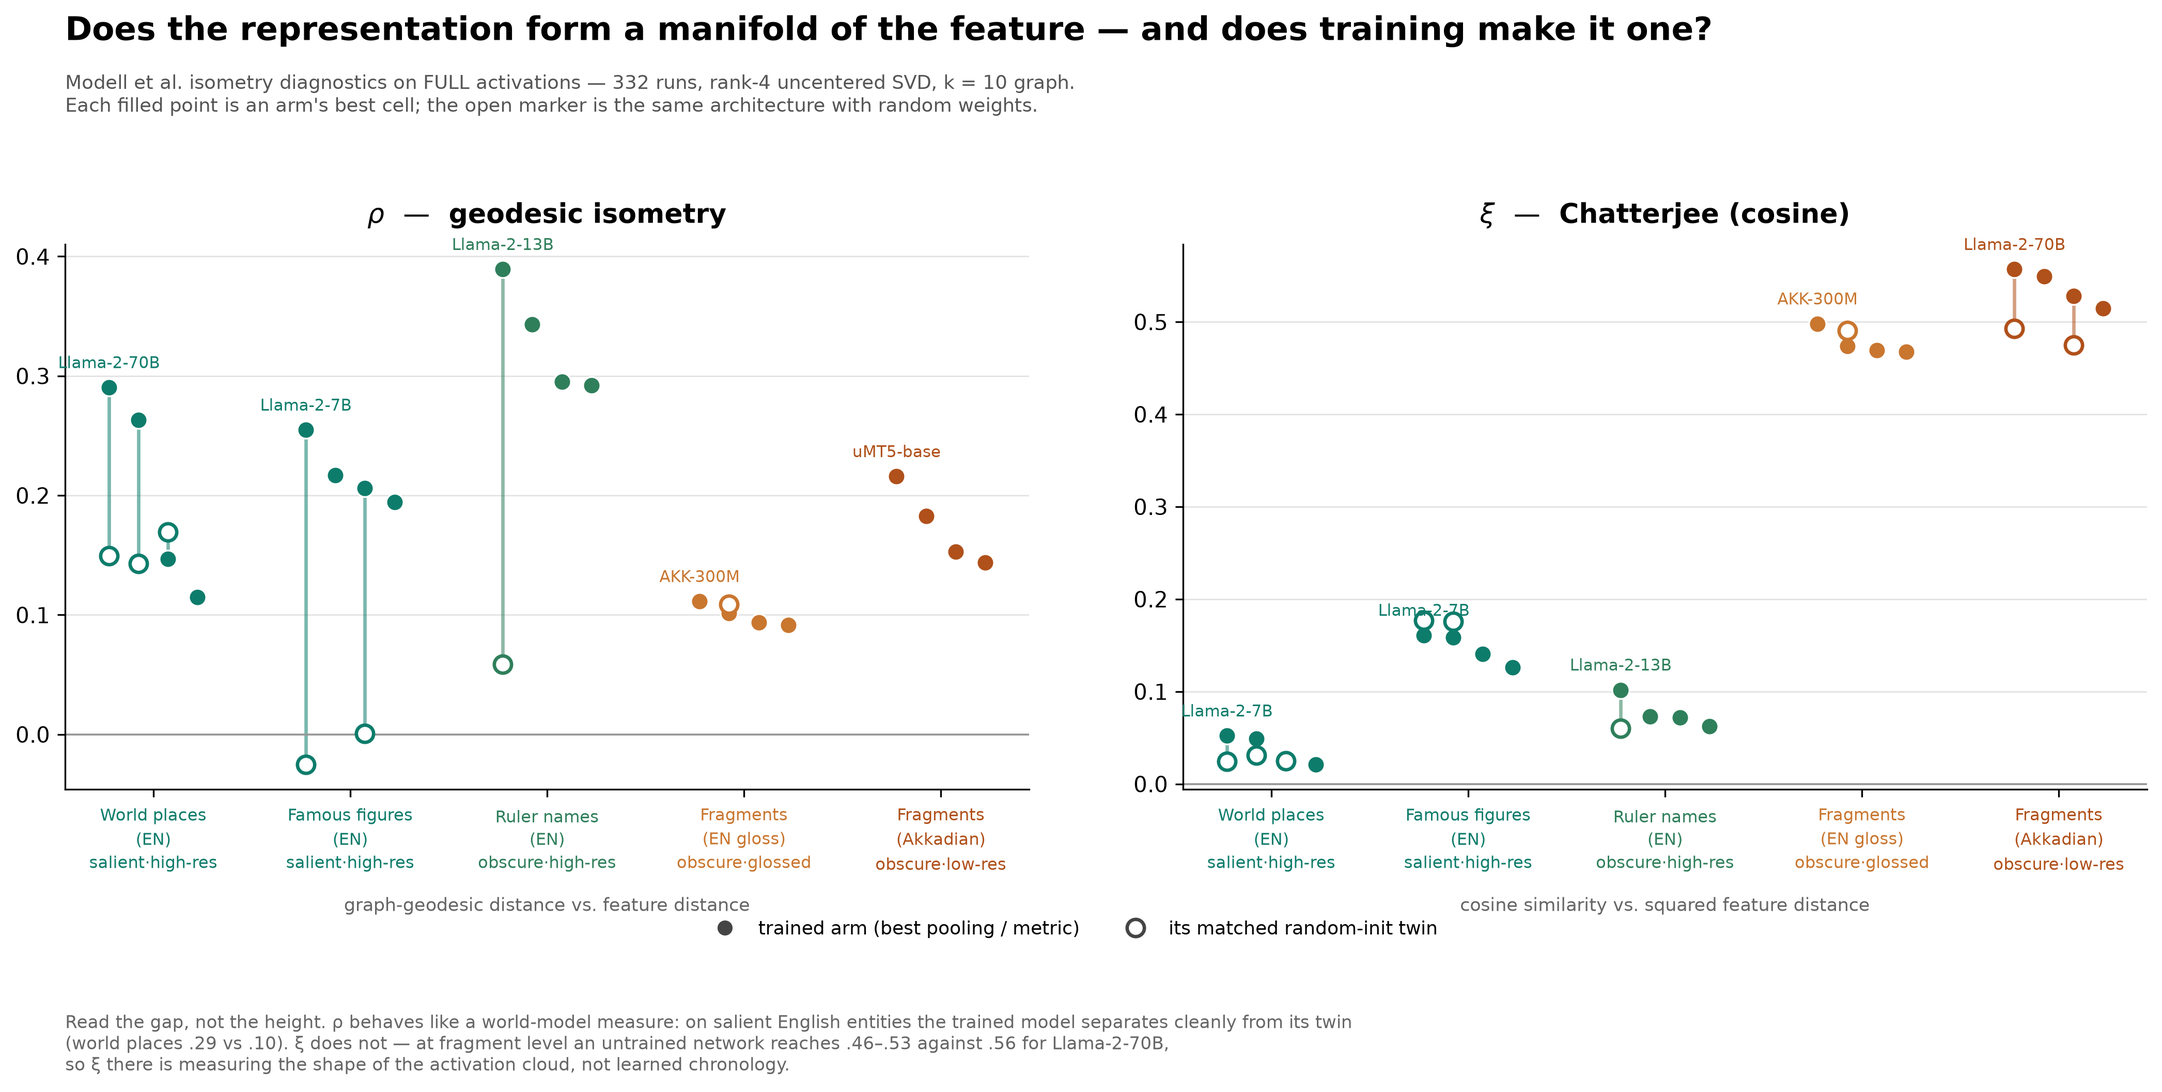
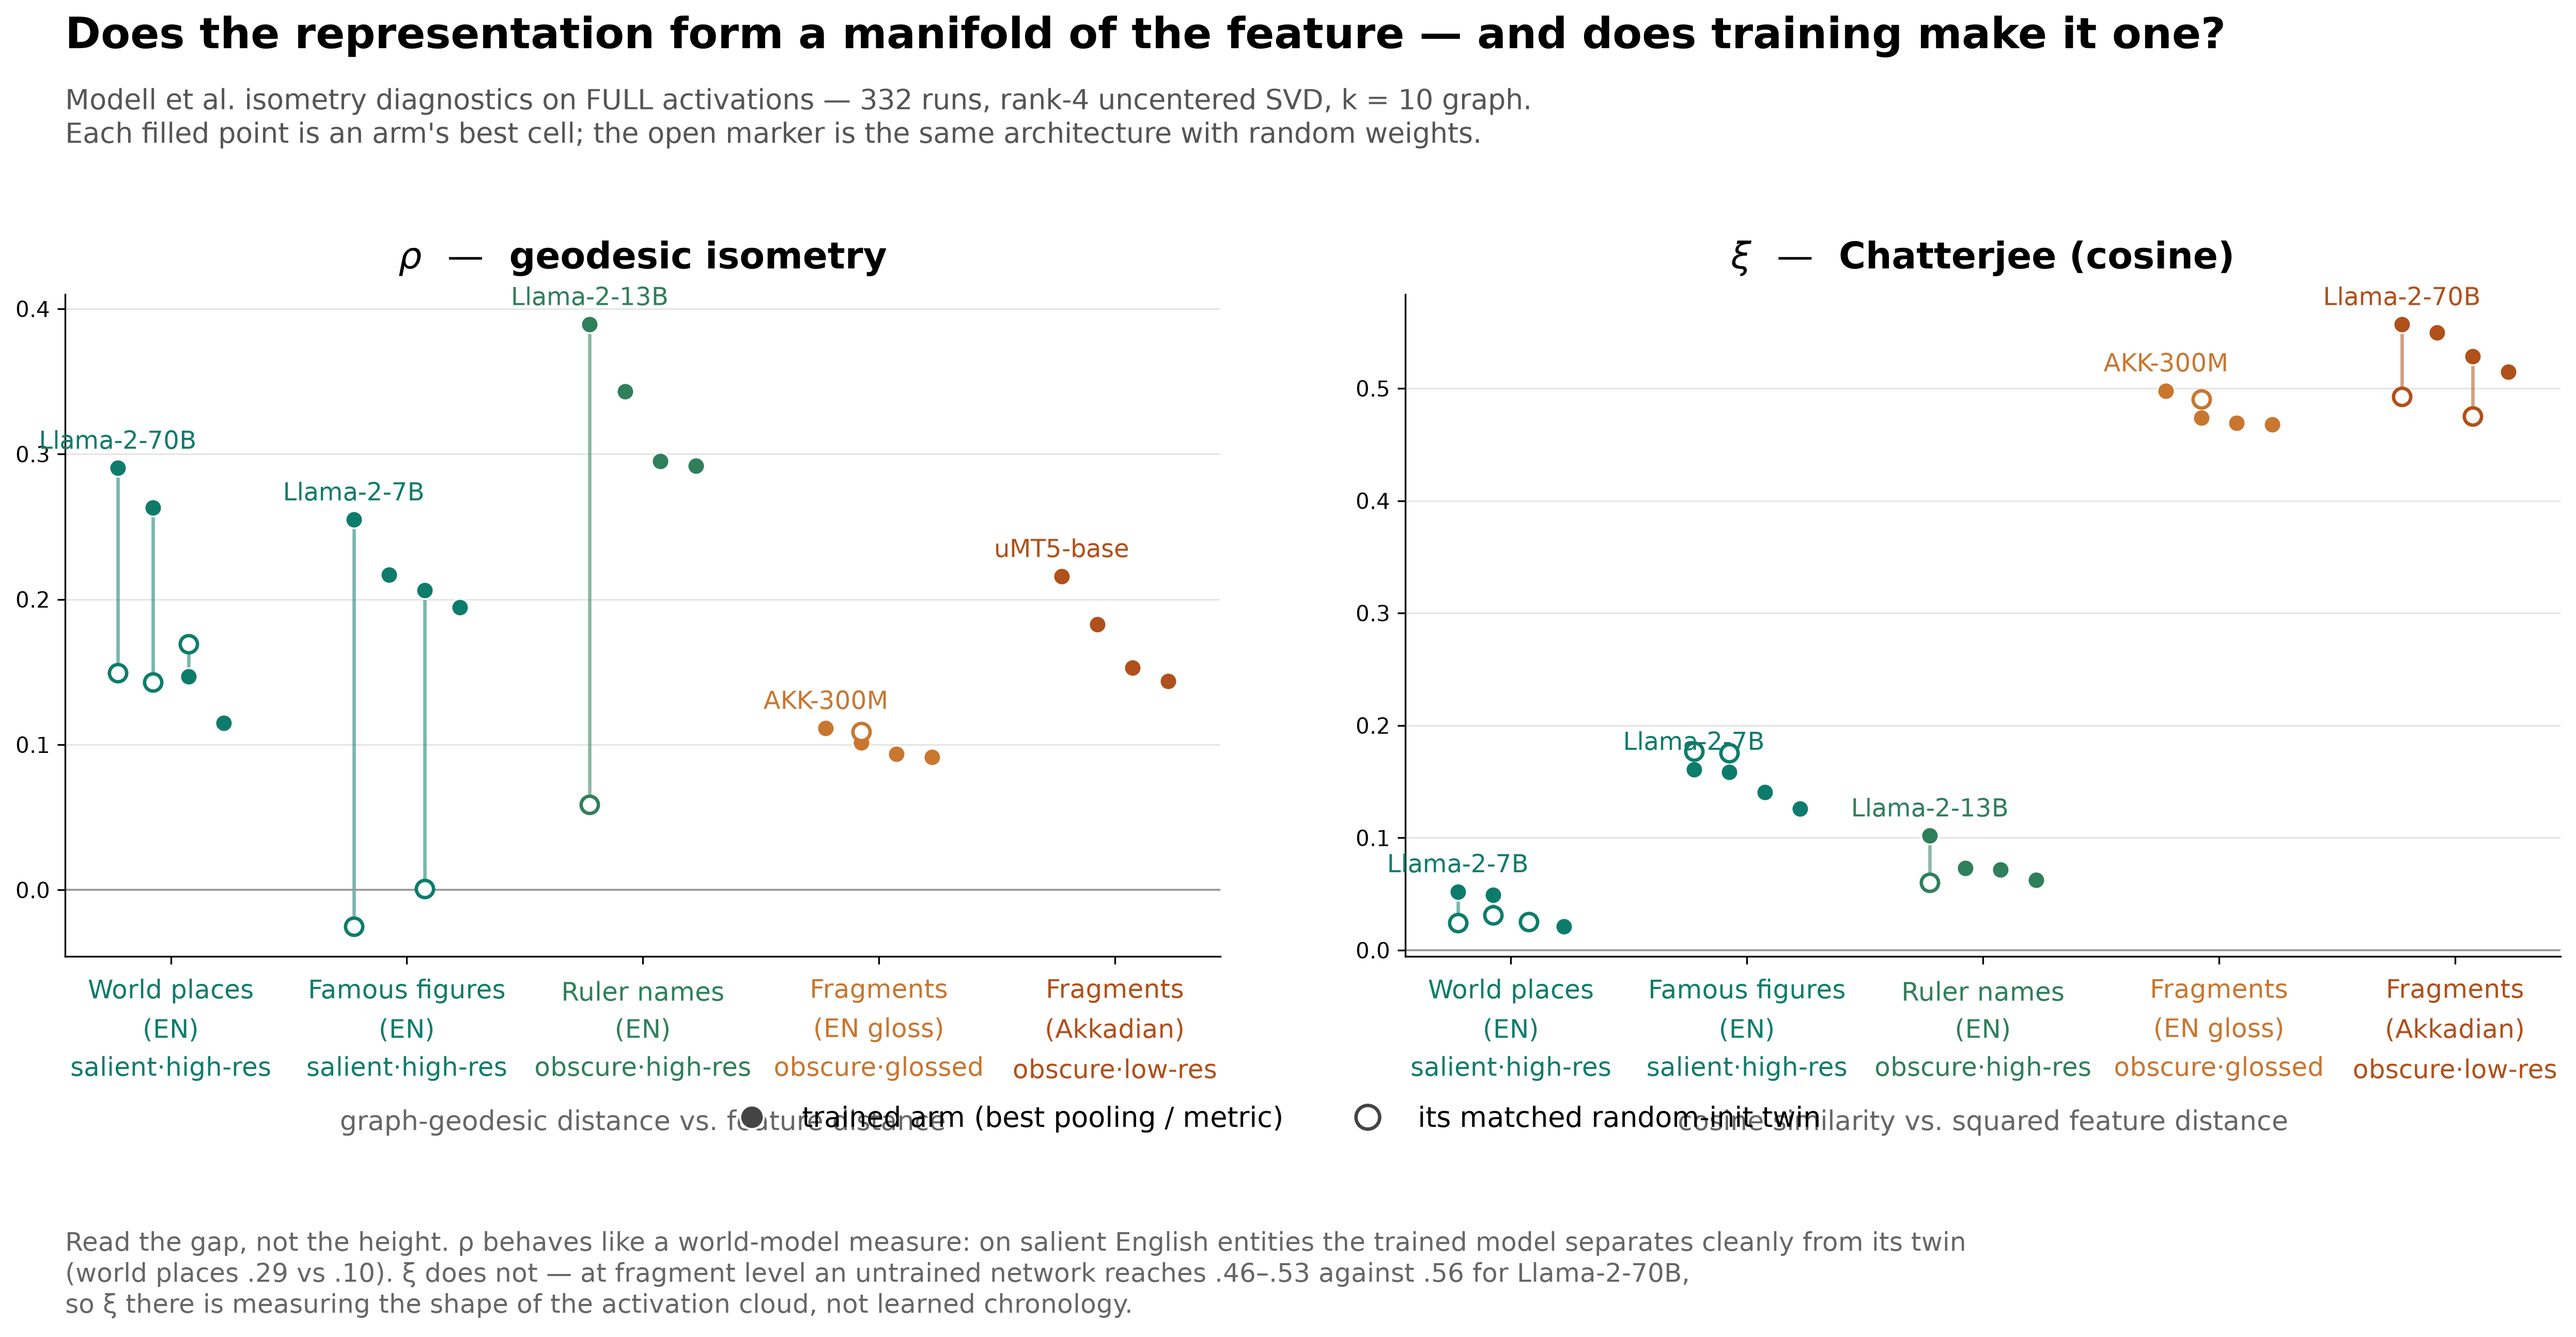
kprofile + isometry summary: adopt the deck type scale via _style.rc()
The last two figure scripts still carried their own 8-10pt sizing while everything else
had moved to the deck's 14pt base. Both now call _style.rc(), so all nine figure
families share one type scale and one palette.

Claude-Session: https://claude.ai/code/session_01JHeh78QKdtqCUQ199CcdUa

diff --git a/v_1/src/world_models/manifold/make_isometry_summary.py b/v_1/src/world_models/manifold/make_isometry_summary.py
@@ -36,6 +36,7 @@ from matplotlib.lines import Line2D
 import sys as _sys, os as _os
 _sys.path.insert(0, _os.path.join(_os.path.dirname(_os.path.abspath(__file__)), '..', 'figures', 'lib'))
 from _save import save as _save_fig  # noqa: E402
+from _style import rc as _rc  # noqa: E402
 
 
 _HERE = os.path.dirname(os.path.abspath(__file__))
@@ -91,8 +92,8 @@ def best_for(S, surface, dataset, arm, which):
 
 def main():
     S = load()
-    fig, axes = plt.subplots(1, 2, figsize=(14.6, 7.4))
-    plt.rcParams.update({"font.family": "DejaVu Sans"})
+    fig, axes = plt.subplots(1, 2, figsize=(17.5, 9.0))
+    _rc()
 
     for ax, (wi, name, blurb) in zip(axes, [
             (1, r"$\rho$  —  geodesic isometry",
@@ -121,7 +122,7 @@ def main():
                             alpha=.55, zorder=2)
                 if drawn == 0:
                     ax.annotate(LAB.get(a, a), (x, v), textcoords="offset points",
-                                xytext=(0, 9), ha="center", fontsize=7.4,
+                                xytext=(0, 9), ha="center", fontsize=11.5,
                                 color=CELL_COL[cell])
                 drawn += 1
                 if drawn == 4:
@@ -130,38 +131,38 @@ def main():
 
         ax.axhline(0, color="#999999", lw=0.9)
         ax.set_xticks(xt)
-        ax.set_xticklabels(labels, fontsize=7.6, linespacing=1.45)
+        ax.set_xticklabels(labels, fontsize=12, linespacing=1.5)
         for t, c in zip(ax.get_xticklabels(), colors):
             t.set_color(c)
-        ax.set_title(name, fontsize=12.5, fontweight="bold", pad=10)
-        ax.set_xlabel(blurb, fontsize=8.4, color="#666666", labelpad=10)
+        ax.set_title(name, fontsize=17, fontweight="bold", pad=12)
+        ax.set_xlabel(blurb, fontsize=12.5, color="#666666", labelpad=10)
         ax.grid(axis="y", color="#e4e4e4", lw=0.7)
         ax.set_axisbelow(True)
         for s in ("top", "right"):
             ax.spines[s].set_visible(False)
 
-    handles = [Line2D([], [], marker="o", ls="", mfc="#444444", mec="white", ms=8,
+    handles = [Line2D([], [], marker="o", ls="", mfc="#444444", mec="white", ms=11,
                       label="trained arm (best pooling / metric)"),
                Line2D([], [], marker="o", ls="", mfc="white", mec="#444444", mew=1.6,
-                      ms=8, label="its matched random-init twin")]
+                      ms=11, label="its matched random-init twin")]
     fig.legend(handles=handles, loc="lower center", bbox_to_anchor=(0.5, 0.155),
-               ncol=2, frameon=False, fontsize=8.6)
+               ncol=2, frameon=False, fontsize=13)
 
     fig.suptitle("Does the representation form a manifold of the feature — "
                  "and does training make it one?",
-                 fontsize=15, fontweight="bold", x=0.055, ha="left", y=0.975)
+                 fontsize=20, fontweight="bold", x=0.055, ha="left", y=0.975)
     fig.text(0.055, 0.925,
              "Modell et al. isometry diagnostics on FULL activations — 332 runs, rank-4 "
              "uncentered SVD, k = 10 graph.\nEach filled point is an arm's best cell; the "
              "open marker is the same architecture with random weights.",
-             fontsize=8.8, wrap=True, color="#555555", ha="left", va="top")
+             fontsize=13, wrap=True, color="#555555", ha="left", va="top")
     fig.text(0.055, 0.105,
              "Read the gap, not the height. ρ behaves like a world-model measure: on "
              "salient English entities the trained model separates cleanly from its twin\n"
              "(world places .29 vs .10). ξ does not — at fragment level an untrained "
              "network reaches .46–.53 against .56 for Llama-2-70B,\nso ξ there is measuring "
              "the shape of the activation cloud, not learned chronology.",
-             fontsize=8.2, color="#666666", ha="left", va="top")
+             fontsize=12, color="#666666", ha="left", va="top")
     fig.subplots_adjust(left=0.055, right=0.975, top=0.775, bottom=0.30, wspace=0.16)
     _save_fig(fig, OUT)
     print("wrote", OUT)

diff --git a/v_1/src/world_models/figures/designs/kprofile.py b/v_1/src/world_models/figures/designs/kprofile.py
@@ -25,7 +25,7 @@ import matplotlib.pyplot as plt
 import numpy as np
 
 sys.path.insert(0, os.path.join(os.path.dirname(os.path.abspath(__file__)), "..", "lib"))
-from _style import COL, LAB, isr                                    # noqa: E402
+from _style import COL, LAB, isr, rc                                # noqa: E402
 from _save import save as _save_fig                                 # noqa: E402
 
 _HERE = os.path.dirname(os.path.abspath(__file__))
@@ -64,8 +64,8 @@ def curves(variant, pool):
     return out
 
 
-fig, axes = plt.subplots(1, len(CELLS), figsize=(4.55 * len(CELLS), 5.0), sharey=True)
-plt.rcParams.update({"font.family": "DejaVu Sans"})
+fig, axes = plt.subplots(1, len(CELLS), figsize=(5.6 * len(CELLS), 6.2), sharey=True)
+rc()
 
 kmax_seen = OLD_CEILING
 for ax, (variant, pool, title) in zip(axes, CELLS):
@@ -88,29 +88,29 @@ for ax, (variant, pool, title) in zip(axes, CELLS):
     ax.set_xscale("log", base=2)
     ticks = [k for k in (1, 2, 3, 5, 8, 12, 16, 24, 32, 48, 64) if k <= kmax_seen]
     ax.set_xticks(ticks)
-    ax.set_xticklabels([str(k) for k in ticks], fontsize=9)
+    ax.set_xticklabels([str(k) for k in ticks], fontsize=13)
     ax.minorticks_off()
-    ax.set_xlabel("PLS latent dimensions  k", fontsize=9.5, color=MUT)
-    ax.set_title(title, fontsize=10.2, color=INK, fontweight="bold", pad=8)
+    ax.set_xlabel("PLS latent dimensions  k", fontsize=15, color=MUT)
+    ax.set_title(title, fontsize=16.5, color=INK, fontweight="bold", pad=8)
     ax.axhline(0, color="#9a9a9a", lw=0.9)
     ax.grid(color="#ececec", lw=0.7)
     ax.set_axisbelow(True)
     for s in ("top", "right"):
         ax.spines[s].set_visible(False)
 
-axes[0].set_ylabel("Spearman ρ   (grouped MC, r = 8)", fontsize=10, color=INK)
+axes[0].set_ylabel("Spearman ρ   (grouped MC, r = 8)", fontsize=15, color=INK)
 axes[0].annotate("old grid ceiling", xy=(OLD_CEILING, axes[0].get_ylim()[1]),
                  xytext=(-4, -12), textcoords="offset points", ha="right",
-                 fontsize=8.2, color=WARM, rotation=90, va="top")
+                 fontsize=12, color=WARM, rotation=90, va="top")
 
 swept = kmax_seen > OLD_CEILING
 fig.suptitle("How many latent dimensions does the date live in?",
-             fontsize=15, fontweight="bold", x=0.045, ha="left", y=0.985)
+             fontsize=20, fontweight="bold", x=0.045, ha="left", y=0.985)
 fig.text(0.045, 0.925,
          "Grouped-MC Spearman ρ as a function of the PLS rank k, one line per arm; the "
          "ring marks the k that was selected. Dashed vertical = the k = 5 ceiling "
          "inherited from shared/mc_probe.py.",
-         fontsize=9.0, color="#555555", ha="left", va="top")
+         fontsize=13, color="#555555", ha="left", va="top")
 fig.text(0.045, 0.035,
          ("Curves extend past the old ceiling, so k is now chosen by the data rather "
           "than by the grid. Where a curve is still rising at the right-hand edge, the "
@@ -119,6 +119,6 @@ fig.text(0.045, 0.035,
           "Every curve stops at k = 5 because that is where the inherited grid stopped "
           "— 18 of 58 cells selected exactly k = 5, which is the signature of a grid "
           "that is binding. WAk_pls_ksweep extends this to k = 64."),
-         fontsize=8.4, color=("#555555" if swept else WARM), ha="left", va="top")
+         fontsize=12, color=("#555555" if swept else WARM), ha="left", va="top")
 fig.subplots_adjust(left=0.055, right=0.985, top=0.775, bottom=0.155, wspace=0.08)
 _save_fig(fig, OUT)
